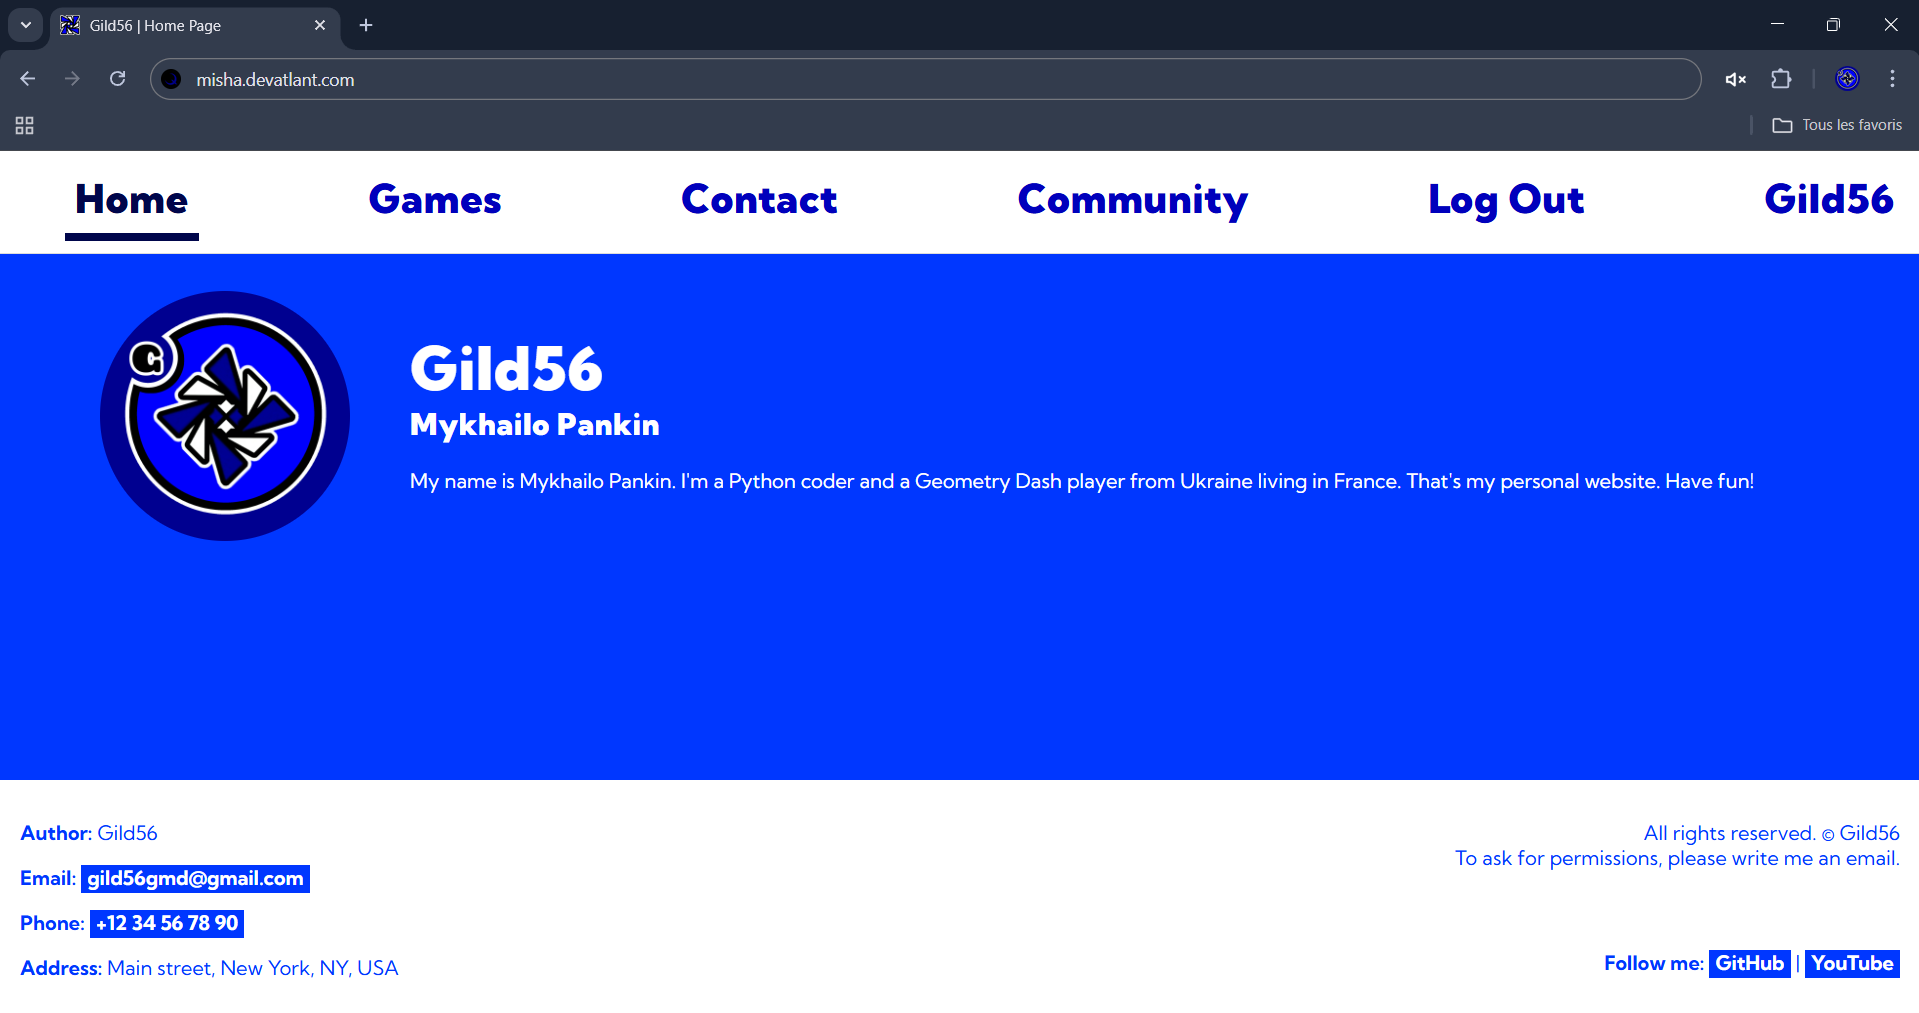
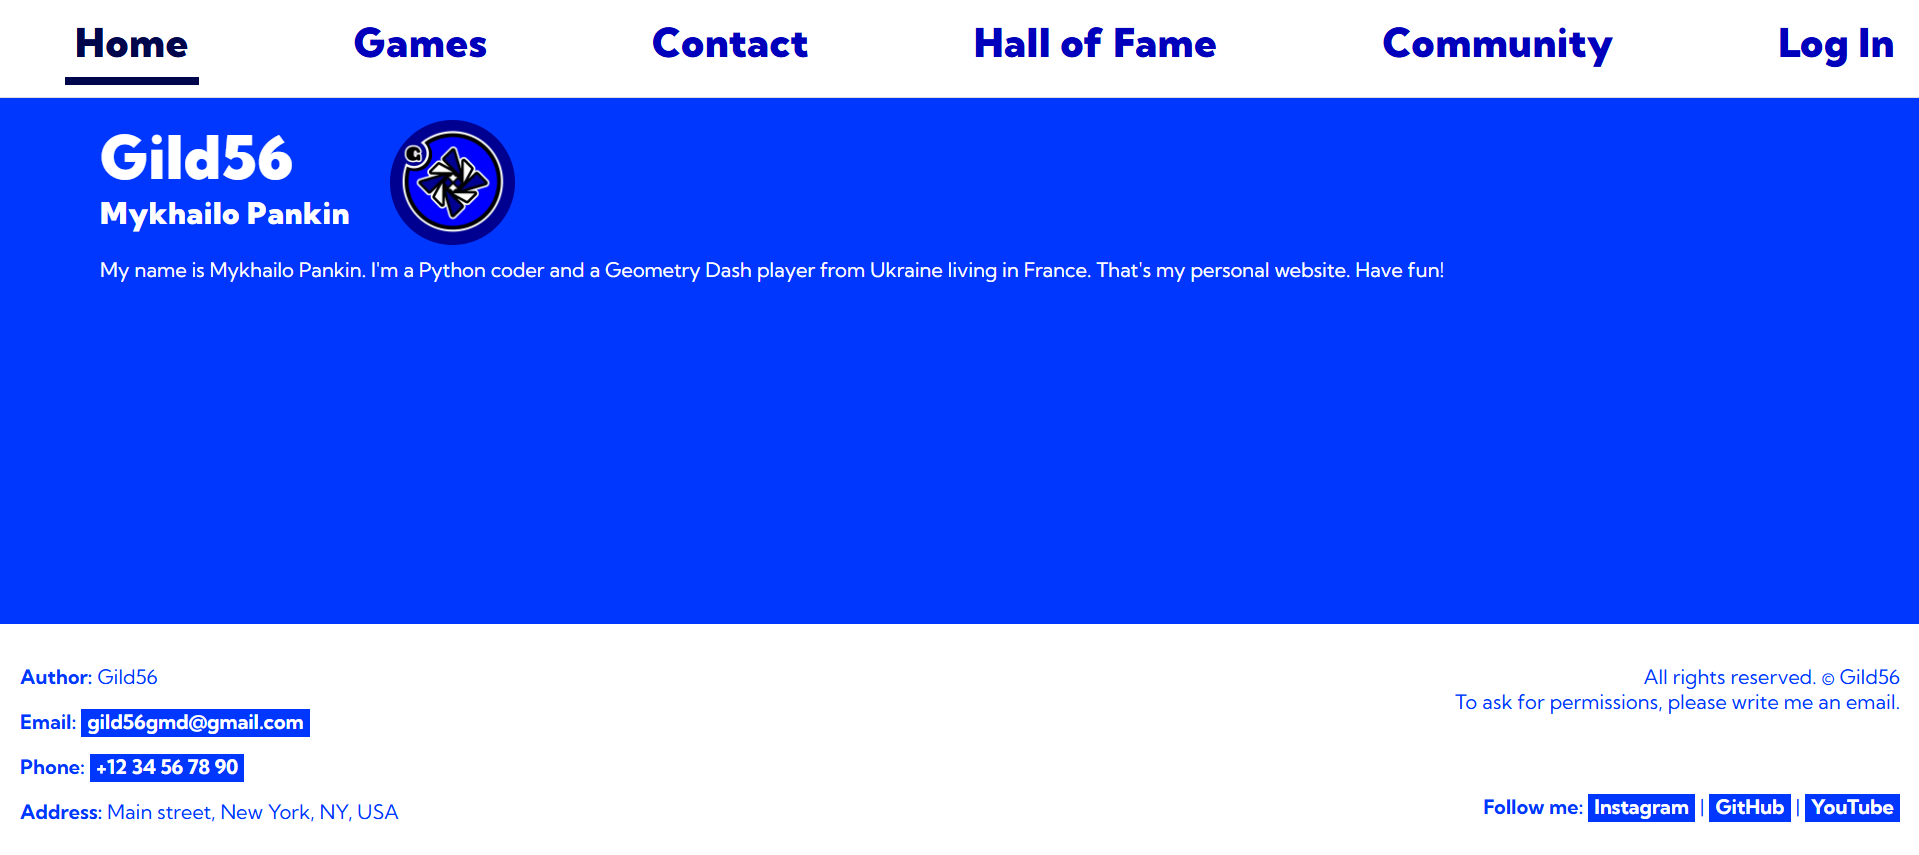
big update

diff --git a/templates/games.html b/templates/games.html
@@ -72,7 +72,27 @@
             </p>
         </div>
         <div class="column">
-            <img class="screenshot" height="200px" src=" {{ url_for('static', filename='images/valorant_randomizer.png') }} ">
+            <img class="screenshot" height="200px" src=" {{ url_for('static', filename='images/gild56_website.png') }} ">
+        </div>
+    </div>
+    <hr>
+    <div class="columns-space-between">
+        <div class="column">
+            <h1>Titanic AI</h1>
+            <p class="small-margin-top">
+                Would you have survived on the Titanic? Fill out the questionnaire and find out with up to 80% accuracy!
+            </p>
+            <p class="small-margin-top">
+                <a href="https://github.com/Gild56/titanic_ai/releases/download/1.0.0/TitanicAI.exe" class="no-bg"><button>Download a <b>.EXE</b></button></a>
+                <b>EXE</b> is a Windows executable format easy to use. You have only one file that you can just open by clicking on it.
+            </p>
+            <p class="small-margin-top">
+                <a href="https://github.com/Gild56/titanic_ai/archive/refs/heads/main.zip" class="no-bg"><button>Download a <b>.ZIP</b></button></a>
+                <b>ZIP</b> is a compressed archive. First, you need to "unzip" the file. Then, you need to install python and libs used in the project and run the <span class="path">titanic_ai/main.py</span> file.
+            </p>
+        </div>
+        <div class="column">
+            <img class="screenshot" height="200px" src=" {{ url_for('static', filename='images/titanic_ai.png') }} ">
         </div>
     </div>
 </main>

diff --git a/templates/sign_up.html b/templates/sign_up.html
@@ -17,7 +17,7 @@
 <main>
     <div class="align-center">
         <div class="form">
-            <form method="post" action="{{ url_for('sign_up') }}" class="margin-bottom">
+            <form method="post" action="{{ url_for('sign_up') }}">
                 <h1>Sign Up:</h1>
                 <p><input type="text" id="login" name="input_login" placeholder="Login" required></p>
                 <p><input type="password" id="password" name="input_password" placeholder="Password" minlength="5" required></p>
@@ -26,7 +26,7 @@
                 {% if error_message %}
                     <p class="red">{{ error_message }}</p>
                 {% endif %}
-                <button type="submit" class="subimt big">Create Account</button>
+                <button type="submit" class="subimt medium">Create Account</button>
             </form>
 
             <a href="{{ url_for('log_in') }}">I already have an account...</a>

diff --git a/templates/log_in.html b/templates/log_in.html
@@ -17,14 +17,14 @@
 <main>
     <div class="align-center">
         <div class="form">
-            <form method="post" action="{{ url_for('log_in') }}" class="margin-bottom">
+            <form method="post" action="{{ url_for('log_in') }}">
                 <h1>Logging In:</h1>
                 <p><input type="text" id="login" name="input_login" placeholder="Login" required></p>
                 <p><input type="password" id="password" name="input_password" placeholder="Password" minlength="5" required></p>
                 {% if error_message %}
                     <p class="red">{{ error_message }}</p>
                 {% endif %}
-                <button type="submit" class="subimt">Log In</button>
+                <button type="submit" class="subimt medium">Log In</button>
             </form>
 
             <a href="{{ url_for('sign_up') }}">I haven't an account...</a>

diff --git a/static/css/other.css b/static/css/other.css
@@ -73,6 +73,11 @@
     margin-left: 1em;
     margin-top: 2em;
     margin-bottom: 2em;
+    border: 5px solid #00064b;
+    border-radius: 20px;
+    max-width: 20em;
+    height: auto;
+    width: auto;
 }
 
 .small-margin-top {
@@ -101,6 +106,10 @@
 
 .align-center {
     text-align: center;
+    justify-content: center;
+    align-items: center;
+    display: grid;
+    place-items: center;
 }
 
 .pfp-selection {
@@ -117,7 +126,7 @@
     cursor: pointer;
     border: 2px solid transparent;
     padding: 10px;
-    border-radius: 10px;
+    border-radius: 20px;
     transition: border-color 0.2s;
 }
 
@@ -140,6 +149,6 @@
 
 .pfp-container:hover img,
 .pfp-container input[type="radio"]:checked + img {
-    border-color: #000061;
+    border-color: #000024;
 }
 

diff --git a/templates/base.html b/templates/base.html
@@ -47,6 +47,7 @@
                     </p>
                     <p>
                         <strong>Follow me:</strong>
+                        <a href="https://www.instagram.com/gild56gmd/" target="_blank">Instagram</a> |
                         <a href="https://github.com/Gild56" target="_blank">GitHub</a> |
                         <a href="https://youtube.com/@gild56gmd" target="_blank">YouTube</a>
                     </p>

diff --git a/templates/contact.html b/templates/contact.html
@@ -40,6 +40,14 @@
     </section>
     <hr>
     <section>
+        <h1>Instagram</h1>
+        <p>
+            You can subscribe to my
+            <a href="https://www.instagram.com/gild56gmd/" target="_blank">Instagram</a> channel.<br>
+        </p>
+    </section>
+    <hr>
+    <section>
         <h1>YouTube</h1>
         <p>
             Finally, you can subscribe to my

diff --git a/static/css/posts.css b/static/css/posts.css
@@ -87,7 +87,7 @@ details {
     border: none !important;
     cursor: pointer;
     height: fit-content;
-    font-size: large !important;
+    font-size: small !important;
     font-weight: bold;
 }
 

diff --git a/static/css/form.css b/static/css/form.css
@@ -4,6 +4,7 @@
     padding: 2em;
     background-color: #0000b9;
     max-width: 20em;
+    width: max-content;
     text-align: center;
     margin-bottom: 1em;
     margin-top: 2em;
